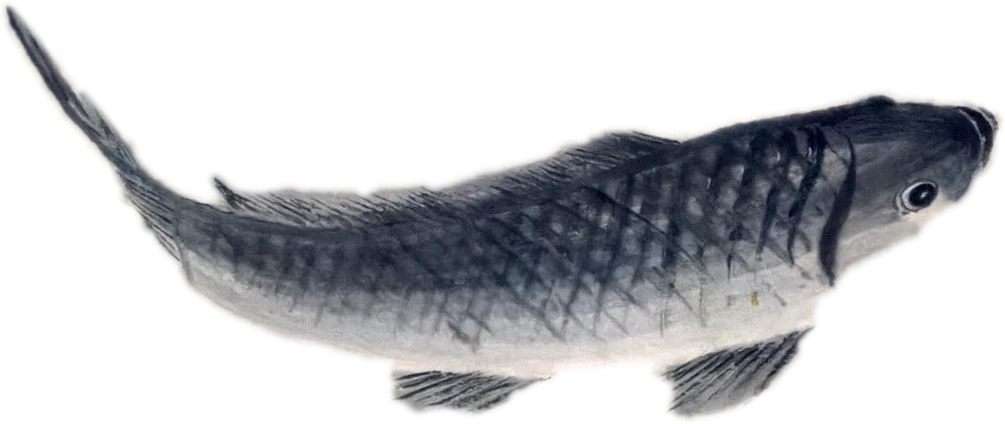
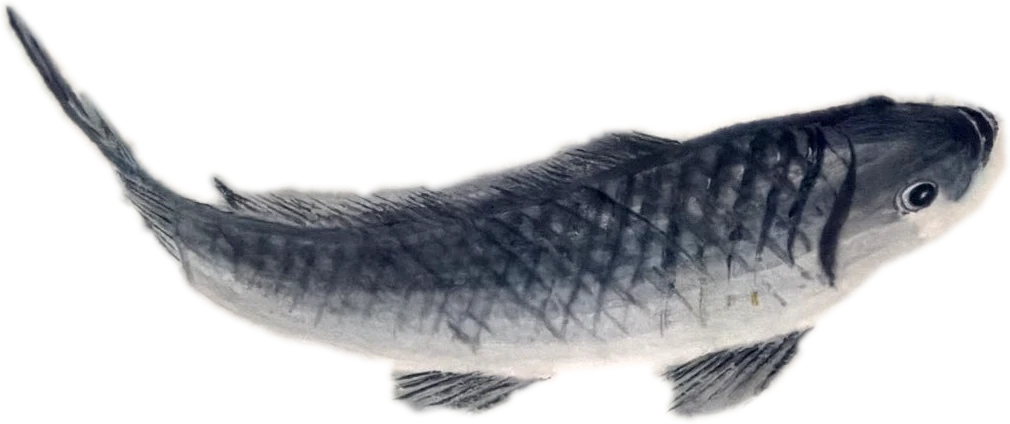
Keep the big carp's whole head; remove halo in moonlit mode
- GrabCut was trimming the pale lower jaw where the ink fades into the
  paper; the extractor now always keeps that area.
- The ripple filter now works in sRGB, so the moonlit dimming matches the
  background and no pale halo shows around the fish.

Claude-Session: https://claude.ai/code/session_01C3mVXuYrPReRJtXhFoqtQk

diff --git a/index.html b/index.html
@@ -31,7 +31,7 @@
 
   <!-- Water ripple used on the fish. Kept tiny so it stays cheap. -->
   <svg class="defs" aria-hidden="true" width="0" height="0">
-    <filter id="water" x="-5%" y="-10%" width="110%" height="120%">
+    <filter id="water" x="-5%" y="-10%" width="110%" height="120%" color-interpolation-filters="sRGB">
       <feTurbulence type="fractalNoise" baseFrequency="0.006 0.018" numOctaves="1" seed="3" result="n">
         <animate attributeName="baseFrequency" dur="14s" values="0.006 0.018;0.008 0.022;0.006 0.018" repeatCount="indefinite"/>
       </feTurbulence>
@@ -58,7 +58,7 @@
         <span class="fish__sway"><img src="assets/fish-blog.webp" alt="" draggable="false"></span>
         <span class="fish__label" style="--lx:-12%;--ly:78%">Blog</span>
       </a>
-      <a class="fish" href="#/about" data-fish="about" style="--x:114;--y:497;--w:1005;--h:424;--px:99%;--py:35%;--dur:11s;--delay:0s"
+      <a class="fish" href="#/about" data-fish="about" style="--x:114;--y:497;--w:1010;--h:424;--px:99%;--py:35%;--dur:11s;--delay:0s"
          data-heading="1,-0.12" aria-label="About me">
         <span class="fish__sway"><img src="assets/fish-about.webp" alt="" draggable="false"></span>
         <span class="fish__label" style="--lx:48%;--ly:37%">About me</span>

diff --git a/tools/extract_fish.py b/tools/extract_fish.py
@@ -40,6 +40,12 @@ FISH = {
     ],
 }
 
+# Areas always kept, where the ink fades into the paper and GrabCut would trim
+# it: the pale lower jaw and throat of the big carp, down to the pectoral fin.
+KEEP = {
+    "about": [[(990,598),(1060,596),(1114,620),(1116,662),(1090,702),(1046,734),(992,760),(962,788),(918,820),(880,760),(900,680)]],
+}
+
 all_mask = np.zeros((H, W), np.uint8)
 meta = {}
 for name, polys in FISH.items():
@@ -57,6 +63,8 @@ for name, polys in FISH.items():
     except cv2.error:
         fg = poly
     fg = cv2.bitwise_and(fg, cv2.dilate(poly, np.ones((9, 9))))
+    for k in KEEP.get(name, []):
+        cv2.fillPoly(fg, [np.array(k, np.int32)], 255)
     # keep only the biggest connected blobs (drop stray seaweed specks)
     n, lab, st, _ = cv2.connectedComponentsWithStats(fg)
     keep = np.zeros_like(fg)
